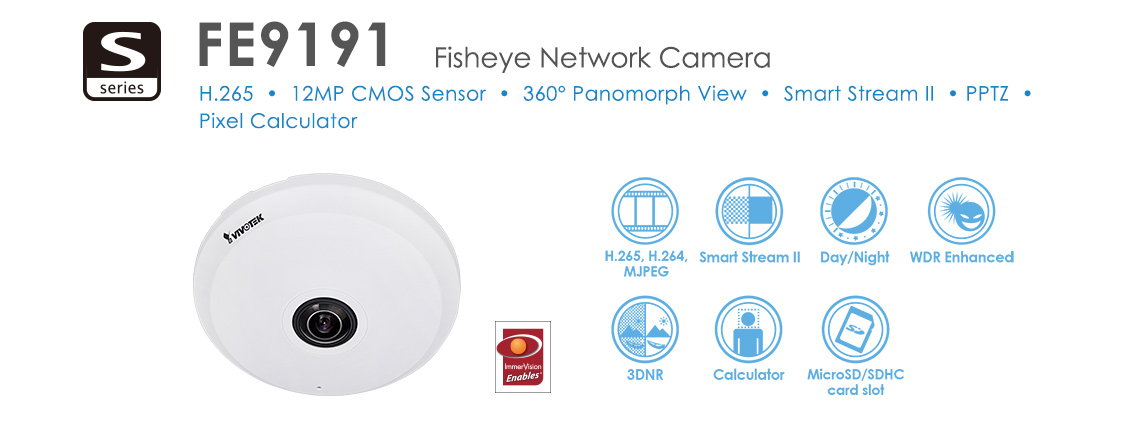
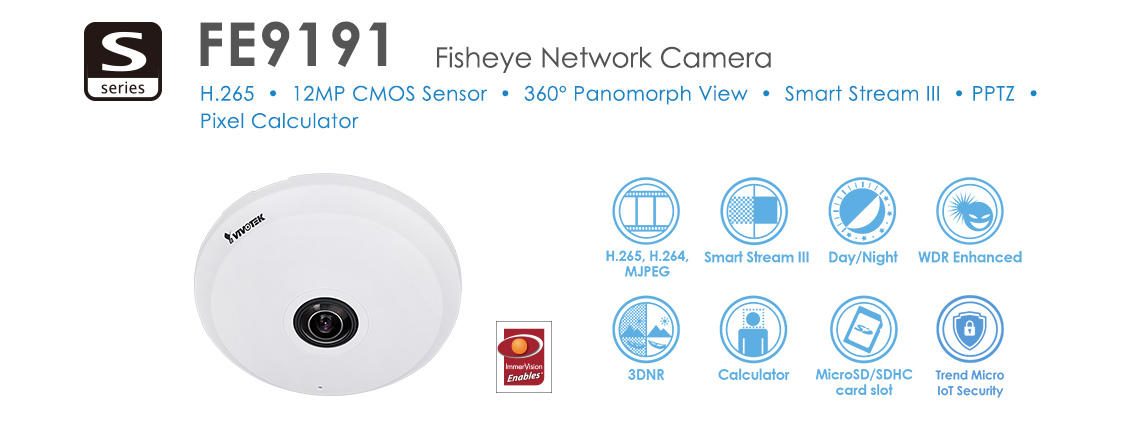
Updates info of FE9191/9391-EV and H.265 pages

diff --git a/fe9391-ev/index.html b/fe9391-ev/index.html
@@ -898,7 +898,7 @@
         <div class="col-md-1"></div>
         <div class="col-md-10">
           <h3>Overview</h3>
-          <p class="t84">VIVOTEK’s FE9391-EV is the next generation of market-leading 12-Megapixel 360° panomorph network camera, featuring a detailed 12-Megapixel CMOS sensor which guarantees superb image quality. Utilizing the latest in panomorph lens technology for 180° panoramic view (wall mount) or 360° surround view (ceiling/wall/floor mount) with zero blind spots, the camera is able to provide comprehensive coverage of open areas such as airports, shopping malls, parking lots, retail stores, offices and more.</p>
+          <p class="t84">VIVOTEK’s FE9391-EV is the next generation of market-leading 12-Megapixel 360° panomorph network camera, featuring a detailed 12-Megapixel CMOS sensor which guarantees superb image quality. Utilizing the latest in panomorph lens technology for 180° panoramic view (wall mount) or 360° surround view (ceiling/wall mount) with zero blind spots, the camera is able to provide comprehensive coverage of open areas such as airports, shopping malls, parking lots, retail stores, offices and more.</p>
 
           <p class="t84">The FE9391-EV (IP66, IK10 rated) is the successor to FE8391-V in the VIVOTEK 360° surround view family.  The new model is equipped with a removable IR-cut filter and WDR Enhancement technology, allowing the camera to maintain optimal image quality around the clock for unparalleled visibility under high-contrast lighting environments. 3D Noise Reduction technology enables the camera to capture clear, polished video under low-light conditions. The FE9391-EV's use of the latest in panomorph lens technology has led to much improved image quality with a huge drop in edge distortion. The FE9391-EV is also updated with the latest in IR illumination, VIVOTEK's Smart IR II technology with Adaptive IR. Adaptive IR enables the FE9391-EV's IR illuminators to adjust to the scene together or individually to provide the best possible IR image, reducing glaring hotspots and/or underexposed dark spots.</p>
 
@@ -912,7 +912,7 @@
 
           <div class="div_clear_28"></div>
 
-          <p class="t84">The FE9391-EV will also be the first to include a new wave of advanced Video Content Analysis (VCA). Available in early 2018, this will include better object detection in order to reduce false alarms. Through advanced Video Content Analysis functions including crowd detection features the FE9391-EV is the next steps in elevating surveillance cameras from image capturing devices to advanced notification instruments, allowing users to see more in smarter ways.</p>
+          <p class="t84">The FE9391-EV will also be the first to include a new wave of advanced Video Content Analyses (VCA), including better object detection in order to reduce false alarms. Through advanced Video Content Analysis functions including crowd detection features the FE9391-EV is the next steps in elevating surveillance cameras from image capturing devices to advanced notification instruments, allowing users to see more in smarter ways.</p>
 
           <div class="div_clear_38"></div>
 
@@ -923,10 +923,9 @@
             <li>20 fps @ 2816x2816</li>
             <li>1.29 mm Panomorph Lens for 180° Panoramic View and 360° Surround View</li>
             <li>Removable IR-cut Filter for Day &amp; Night Function</li>
-            <li>360° 20M IR with Smart IR II </li>
-            <li>WDR Enhancement for Improved Visibility in Extremely Bright and Dark Environments</li>
-            <li>3D Noise Reduction for Low-light Conditions</li>
+            <li>360° 20M IR with Smart IR II</li>
             <li>Panoramic PTZ Function with Speed Dome Camera for Monitoring Detailed Regional View</li>
+            <li>Trend Micro IoT Security within Standard Warranty Period</li>
             <li>ePTZ for Data Efficiency</li>
             <li>Support Client Side Dewarping</li>
             <li>Pixel Calculator for Image Clarity Measurement</li>
@@ -966,7 +965,7 @@
                       <a href="http://download.vivotek.com/downloadfile/downloads/datasheets/fe9391-evdatasheet_en.pdf" target="_blank" class="btn btn-default btn-sm">English</a>
                       <!-- <a href="http://download.vivotek.com/downloadfile/downloads/datasheets/fe9391-evdatasheet_de.pdf" target="_blank" class="btn btn-default btn-sm">Deutsch</a> -->
                       <!-- <a href="http://download.vivotek.com/downloadfile/downloads/datasheets/fe9391-evdatasheet_es.pdf" target="_blank" class="btn btn-default btn-sm">Español</a> -->
-                      <a href="http://download.vivotek.com/downloadfile/downloads/datasheets/fe9391-evdatasheet_fr.pdf" target="_blank" class="btn btn-default btn-sm">Français</a>
+                      <!-- <a href="http://download.vivotek.com/downloadfile/downloads/datasheets/fe9391-evdatasheet_fr.pdf" target="_blank" class="btn btn-default btn-sm">Français</a> -->
                       <!-- <a href="http://download.vivotek.com/downloadfile/downloads/datasheets/fe9391-evdatasheet_it.pdf" target="_blank" class="btn btn-default btn-sm">Italiano</a> -->
                       <!-- <a href="http://download.vivotek.com/downloadfile/downloads/datasheets/fe9391-evdatasheet_pt.pdf" target="_blank" class="btn btn-default btn-sm">Português</a> -->
                       <!-- <a href="http://download.vivotek.com/downloadfile/downloads/datasheets/fe9391-evdatasheet_ru.pdf" target="_blank" class="btn btn-default btn-sm">Русский</a> -->
@@ -1226,7 +1225,7 @@
                           Video Streaming
                       </td>
                       <td>
-                          Adjustable resolution, quality and bitrate, configurable video cropping for bandwidth saving, Smart Stream II
+                          Adjustable resolution, quality and bitrate, configurable video cropping for bandwidth saving, Smart Stream III
                       </td>
                   </tr>
                   <tr>
@@ -1565,7 +1564,7 @@
                       <a href="http://download.vivotek.com/downloadfile/downloads/datasheets/fe9391-evdatasheet_en.pdf" target="_blank" class="btn btn-default btn-sm">English</a>
                       <!-- <a href="http://download.vivotek.com/downloadfile/downloads/datasheets/fe9391-evdatasheet_de.pdf" target="_blank" class="btn btn-default btn-sm">Deutsch</a> -->
                       <!-- <a href="http://download.vivotek.com/downloadfile/downloads/datasheets/fe9391-evdatasheet_es.pdf" target="_blank" class="btn btn-default btn-sm">Español</a> -->
-                      <a href="http://download.vivotek.com/downloadfile/downloads/datasheets/fe9391-evdatasheet_fr.pdf" target="_blank" class="btn btn-default btn-sm">Français</a>
+                      <!-- <a href="http://download.vivotek.com/downloadfile/downloads/datasheets/fe9391-evdatasheet_fr.pdf" target="_blank" class="btn btn-default btn-sm">Français</a> -->
                       <!-- <a href="http://download.vivotek.com/downloadfile/downloads/datasheets/fe9391-evdatasheet_it.pdf" target="_blank" class="btn btn-default btn-sm">Italiano</a> -->
                       <!-- <a href="http://download.vivotek.com/downloadfile/downloads/datasheets/fe9391-evdatasheet_pt.pdf" target="_blank" class="btn btn-default btn-sm">Português</a> -->
                       <!-- <a href="http://download.vivotek.com/downloadfile/downloads/datasheets/fe9391-evdatasheet_ru.pdf" target="_blank" class="btn btn-default btn-sm">Русский</a> -->

diff --git a/fe9191/index.html b/fe9191/index.html
@@ -944,11 +944,11 @@
         <div class="col-md-1"></div>
         <div class="col-md-10">
           <h3>Overview</h3>
-          <p class="t84">VIVOTEK’s FE9191 is the next generation of market-leading 12-Megapixel 360° panomorph network camera, featuring a detailed 12-Megapixel CMOS sensor which guarantees superb image quality. Utilizing the latest in panomorph lens technology for 180° panoramic view (wall mount) or 360° surround view (ceiling/wall/floor mount) with zero blind spots, the camera is able to provide comprehensive coverage of open areas such as airports, shopping malls, parking lots, retail stores, offices and more.</p>
+          <p class="t84">VIVOTEK’s FE9191 is the next generation of market-leading 12-Megapixel 360° panomorph network camera, featuring a detailed 12-Megapixel CMOS sensor which guarantees superb image quality. Utilizing the latest in panomorph lens technology for 180° panoramic view (wall mount) or 360° surround view (ceiling/wall mount) with zero blind spots, the camera is able to provide comprehensive coverage of open areas such as airports, shopping malls, parking lots, retail stores, offices and more.</p>
 
           <p class="t84">The FE9191 is the successor to FE8191 in the VIVOTEK 360° surround view family. The new model is equipped with a removable IR-cut filter and WDR Enhancement technology, allowing the camera to maintain optimal image quality around the clock for unparalleled visibility under high-contrast lighting environments. 3D Noise Reduction technology enables the camera to capture clear, polished video under low-light conditions. The FE9191’s use of the latest in panomorph lens technology has led to much improved image quality with a huge drop in edge distortion. </p>
 
-          <p class="t84">The FE9191 will also be the first to include a new wave of advanced Video Content Analysis (VCA). Available in early 2017, this will include better object detection in order to reduce false alarms. Through advanced Video Content Analysis functions including crowd detection features the FE9191 is the next steps in elevating surveillance cameras from image capturing devices to advanced notification instruments, allowing users to see more in smarter ways.</p>
+          <p class="t84">The FE9191 will also be the first to include a new wave of advanced Video Content Analyses (VCA), including better object detection in order to reduce false alarms. Through advanced Video Content Analysis functions including crowd detection features the FE9191 is the next steps in elevating surveillance cameras from image capturing devices to advanced notification instruments, allowing users to see more in smarter ways.</p>
 
           <div class="div_clear_38"></div>
 
@@ -959,9 +959,8 @@
             <li>20 fps @ 2816x2816</li>
             <li>1.29 mm Panomorph Lens for 180° Panoramic View and 360° Surround View</li>
             <li>Removable IR-cut Filter for Day &amp; Night Function</li>
-            <li>WDR Enhancement for Improved Visibility in Extremely Bright and Dark Environments</li>
-            <li>3D Noise Reduction for Low-light Conditions</li>
             <li>Panoramic PTZ Function with Speed Dome Camera for Monitoring Detailed Regional View</li>
+            <li>Trend Micro IoT Security within Standard Warranty Period</li>
             <li>ePTZ for Data Efficiency</li>
             <li>Support Client Side Dewarping</li>
             <li>Pixel Calculator for Image Clarity Measurement</li>
@@ -1000,7 +999,7 @@
                       <a href="http://download.vivotek.com/downloadfile/downloads/datasheets/fe9191datasheet_en.pdf" target="_blank" class="btn btn-default btn-sm">English</a>
                       <!-- <a href="http://download.vivotek.com/downloadfile/downloads/datasheets/fe9191datasheet_de.pdf" target="_blank" class="btn btn-default btn-sm">Deutsch</a> -->
                       <!-- <a href="http://download.vivotek.com/downloadfile/downloads/datasheets/fe9191datasheet_es.pdf" target="_blank" class="btn btn-default btn-sm">Español</a> -->
-                      <a href="http://download.vivotek.com/downloadfile/downloads/datasheets/fe9191datasheet_fr.pdf" target="_blank" class="btn btn-default btn-sm">Français</a>
+                      <!-- <a href="http://download.vivotek.com/downloadfile/downloads/datasheets/fe9191datasheet_fr.pdf" target="_blank" class="btn btn-default btn-sm">Français</a> -->
                       <!-- <a href="http://download.vivotek.com/downloadfile/downloads/datasheets/fe9191datasheet_it.pdf" target="_blank" class="btn btn-default btn-sm">Italiano</a> -->
                       <!-- <a href="http://download.vivotek.com/downloadfile/downloads/datasheets/fe9191datasheet_pt.pdf" target="_blank" class="btn btn-default btn-sm">Português</a> -->
                       <!-- <a href="http://download.vivotek.com/downloadfile/downloads/datasheets/fe9191datasheet_ru.pdf" target="_blank" class="btn btn-default btn-sm">Русский</a> -->
@@ -1251,7 +1250,7 @@
                           Video Streaming
                       </td>
                       <td>
-                          Adjustable resolution, quality and bitrate, configurable video cropping for bandwidth saving, Smart Stream II
+                          Adjustable resolution, quality and bitrate, configurable video cropping for bandwidth saving, Smart Stream III
                       </td>
                   </tr>
                   <tr>
@@ -1549,7 +1548,7 @@
                       <a href="http://download.vivotek.com/downloadfile/downloads/datasheets/fe9191datasheet_en.pdf" target="_blank" class="btn btn-default btn-sm">English</a>
                       <!-- <a href="http://download.vivotek.com/downloadfile/downloads/datasheets/fe9191datasheet_de.pdf" target="_blank" class="btn btn-default btn-sm">Deutsch</a> -->
                       <!-- <a href="http://download.vivotek.com/downloadfile/downloads/datasheets/fe9191datasheet_es.pdf" target="_blank" class="btn btn-default btn-sm">Español</a> -->
-                      <a href="http://download.vivotek.com/downloadfile/downloads/datasheets/fe9191datasheet_fr.pdf" target="_blank" class="btn btn-default btn-sm">Français</a>
+                      <!-- <a href="http://download.vivotek.com/downloadfile/downloads/datasheets/fe9191datasheet_fr.pdf" target="_blank" class="btn btn-default btn-sm">Français</a> -->
                       <!-- <a href="http://download.vivotek.com/downloadfile/downloads/datasheets/fe9191datasheet_it.pdf" target="_blank" class="btn btn-default btn-sm">Italiano</a> -->
                       <!-- <a href="http://download.vivotek.com/downloadfile/downloads/datasheets/fe9191datasheet_pt.pdf" target="_blank" class="btn btn-default btn-sm">Português</a> -->
                       <!-- <a href="http://download.vivotek.com/downloadfile/downloads/datasheets/fe9191datasheet_ru.pdf" target="_blank" class="btn btn-default btn-sm">Русский</a> -->

diff --git a/h265/index.html b/h265/index.html
@@ -390,8 +390,8 @@ to improve your experience.
                       <a href="fe9381-ehv/" target="_blank">FE9381-EHV</a>, 
                       <a href="fe9382-ehv/" target="_blank">FE9382-EHV</a><br>
 
-                      12MP: <a href="fe9191/" target="_blank">FE9191</a>, 
-                            <a href="fe9391-ev/" target="_blank">FE9391-EV</a>
+                      12MP: <a href="fe9191/" target="_blank"><span class="orange_6">FE9191</span></a>, 
+                            <a href="fe9391-ev/" target="_blank"><span class="orange_6">FE9391-EV</span></a>
                     </td>
                   </tr>
                   <tr>
